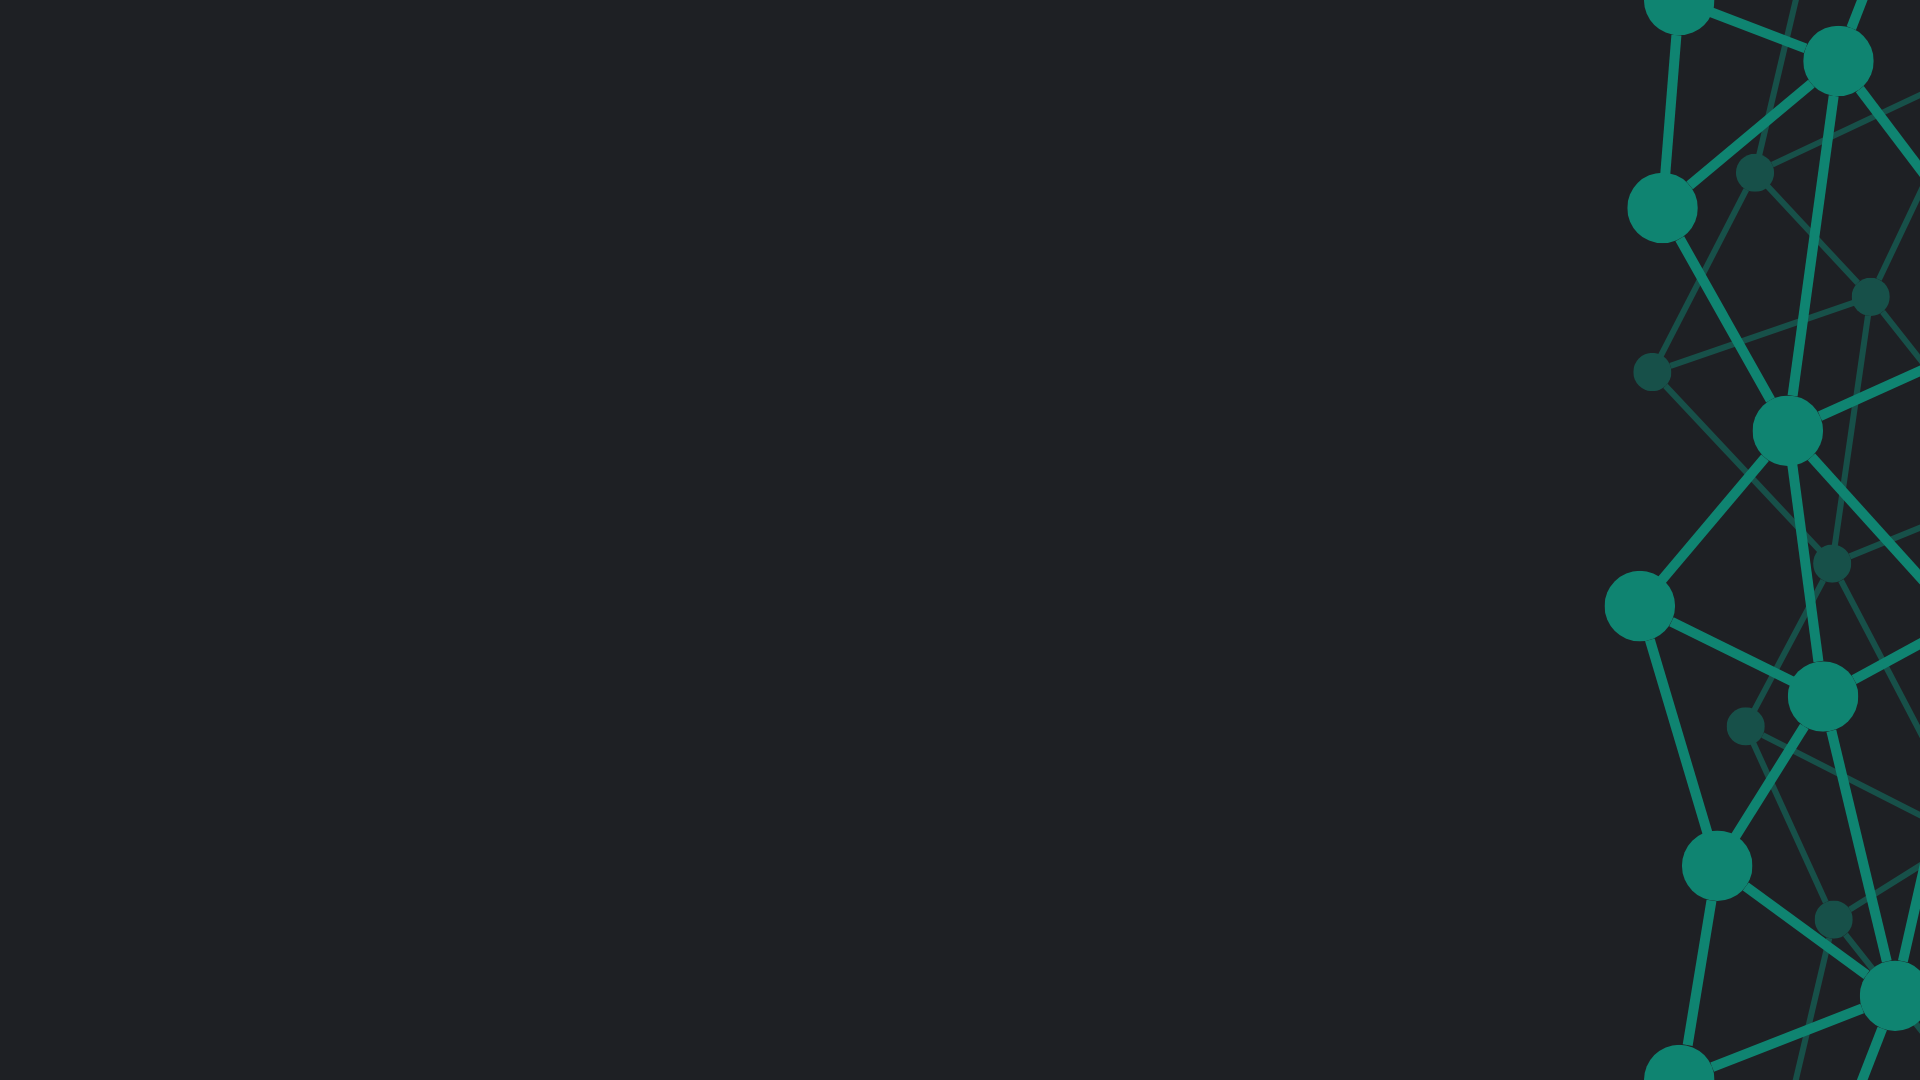
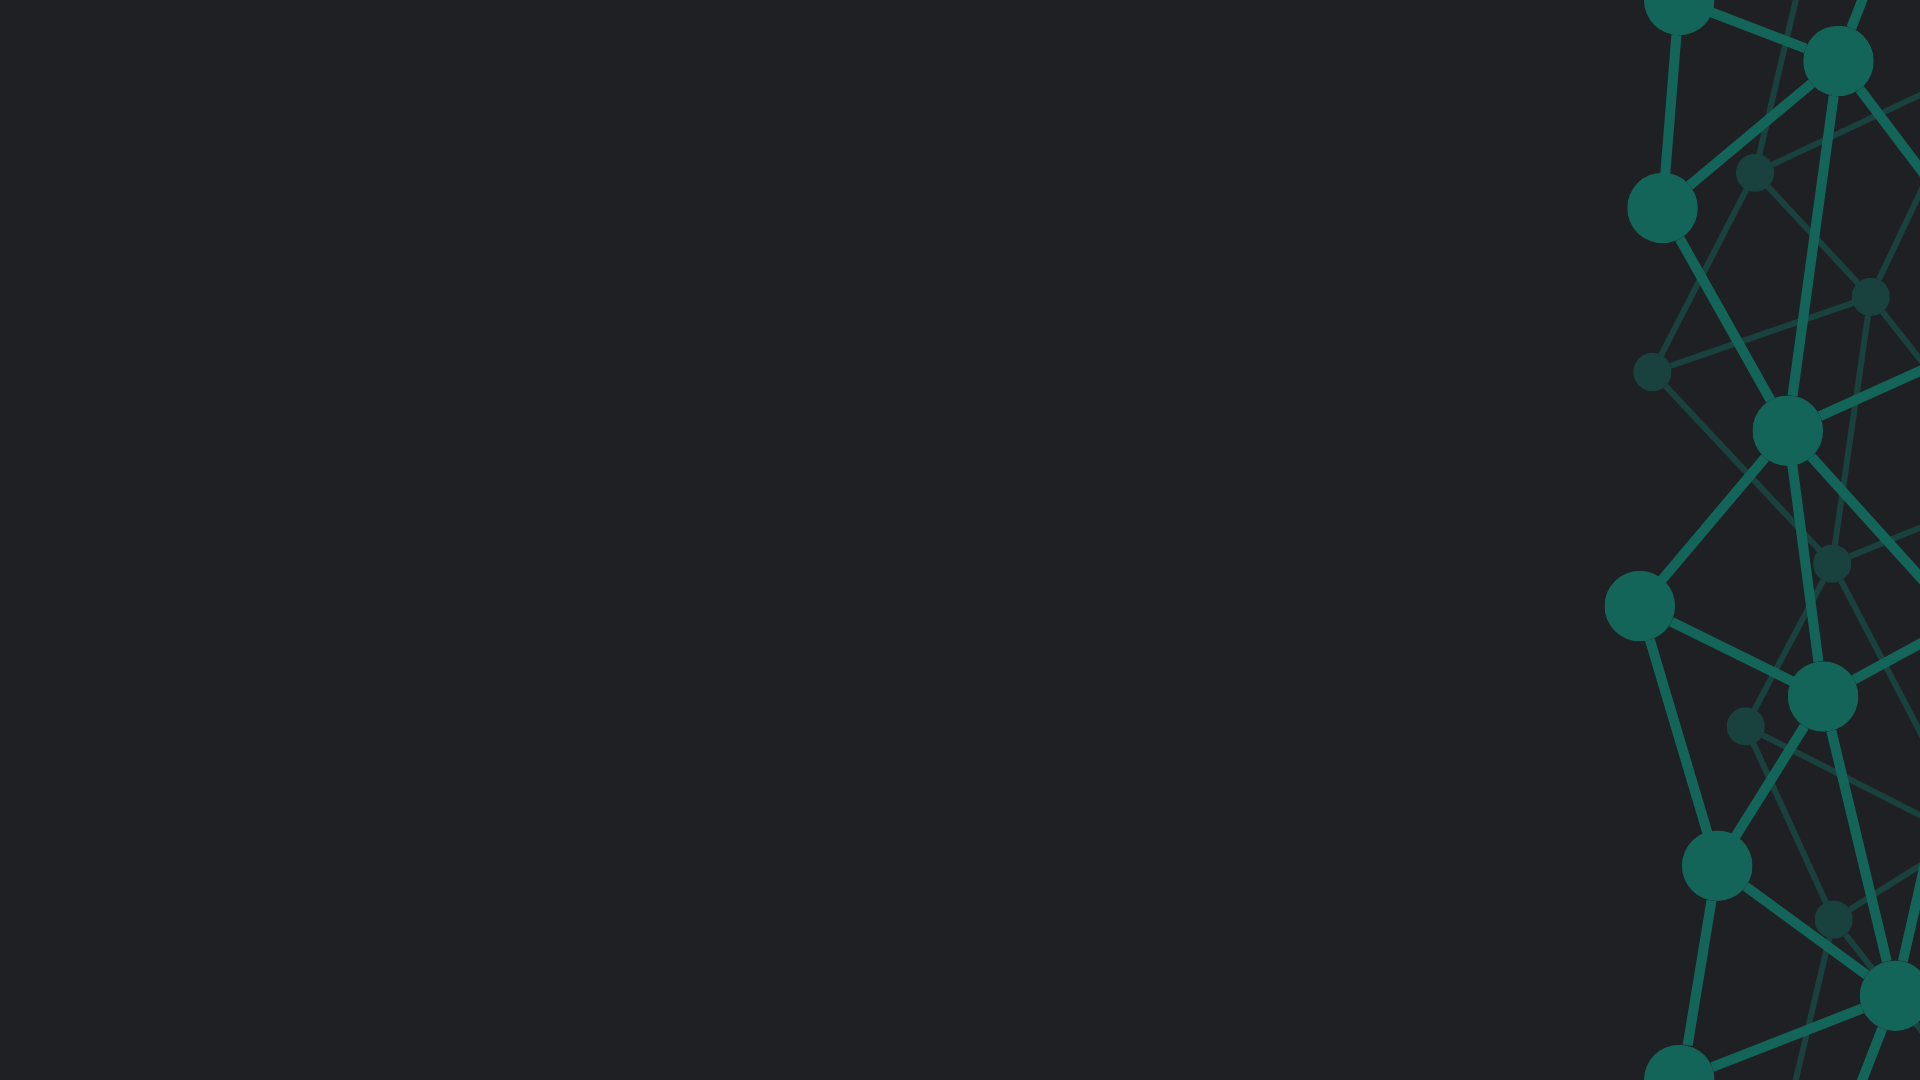
Fixed responsive design for landscape phones. Made background darker

diff --git a/css/const.css b/css/const.css
@@ -78,6 +78,11 @@ body {
         background-attachment: scroll;
         background-size: auto;
         background-repeat: repeat;
+        padding-left: 5%;
+        padding-right: 5%;
+    }
+    .headerBox {
+        padding: 30px 5% !important;
     }
 }
 
@@ -99,16 +104,6 @@ body {
     }
     li {
         font-size: 24px !important;
-    }
-}
-
-@media screen and (orientation : portrait) {
-    body {
-        padding-left: 5%;
-        padding-right: 5%;
-    }
-    .headerBox {
-        padding: 30px 5% !important;
     }
 }
 
